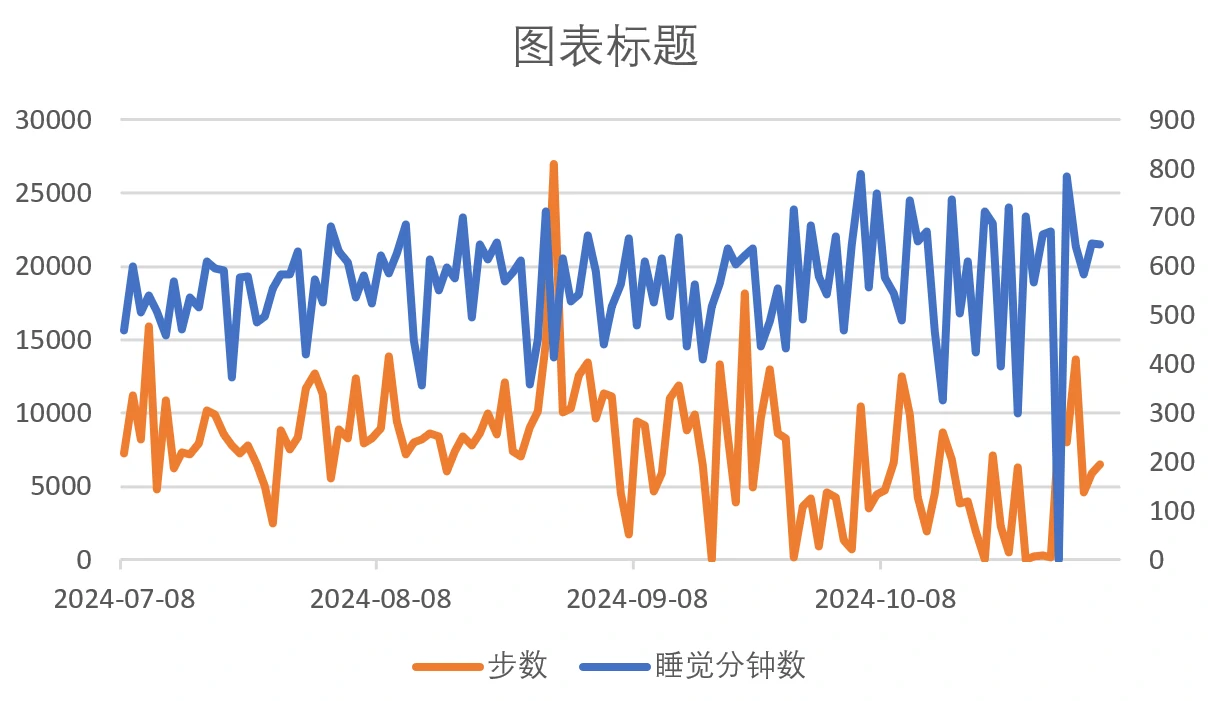
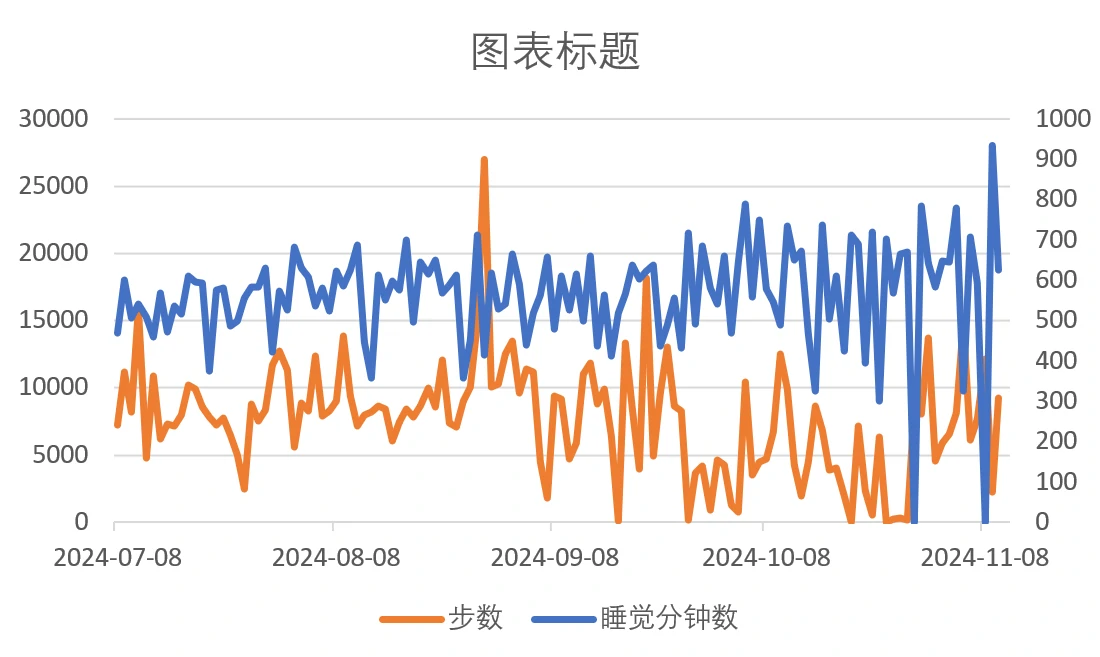
20241110

diff --git a/reason.html b/reason.html
@@ -26,7 +26,7 @@
 <meta content="https://hrfis.me/blog/images/weekly/river.webp" property="og:image"/>
 <meta content="https://hrfis.me/blog/images/weekly/weekly-1.webp" property="og:image"/>
 <meta content="2014-09-03T13:00:00.000Z" property="article:published_time"/>
-<meta content="2024-11-08T09:26:14.336Z" property="article:modified_time"/>
+<meta content="2024-11-10T13:31:53.455Z" property="article:modified_time"/>
 <meta content="Ruofan" property="article:author"/>
 <meta content="summary" name="twitter:card"/>
 <meta content="https://hrfis.me/blog/images/weekly/time.webp" name="twitter:image"/>
@@ -80,7 +80,7 @@
 <div class="sidebar-panel-container">
 <!--noindex-->
 <div class="post-toc-wrap sidebar-panel">
-<div class="post-toc animated"><ol class="nav"><li class="nav-item nav-level-2"><a class="nav-link" href="#%E5%9B%B4%E5%9F%8E%E4%B8%8E%E8%87%AA%E6%88%91%E5%88%86%E6%9E%90"><span class="nav-number">1.</span> <span class="nav-text">围城与自我分析</span></a><ol class="nav-child"><li class="nav-item nav-level-3"><a class="nav-link" href="#%E5%86%85%E5%90%91%E8%80%85%E7%9A%84%E5%9B%B4%E5%9F%8E"><span class="nav-number">1.1.</span> <span class="nav-text">内向者的围城</span></a></li><li class="nav-item nav-level-3"><a class="nav-link" href="#%E8%AF%B4%E8%AF%9D%E5%8D%A1%E5%A3%B3%E7%9A%84%E5%8E%9F%E5%9B%A0"><span class="nav-number">1.2.</span> <span class="nav-text">说话卡壳的原因</span></a></li><li class="nav-item nav-level-3"><a class="nav-link" href="#%E7%97%87%E7%8A%B6%E8%87%AA%E8%BF%B0%E6%82%96%E8%AE%BA"><span class="nav-number">1.3.</span> <span class="nav-text">症状自述悖论</span></a></li></ol></li><li class="nav-item nav-level-2"><a class="nav-link" href="#%E5%88%9B%E4%BC%A4%E4%B8%8E%E7%94%A9%E9%94%85"><span class="nav-number">2.</span> <span class="nav-text">创伤与甩锅</span></a><ol class="nav-child"><li class="nav-item nav-level-3"><a class="nav-link" href="#%E5%88%9B%E4%BC%A4%E7%9A%84%E4%BB%A3%E9%99%85%E4%BC%A0%E9%80%92"><span class="nav-number">2.1.</span> <span class="nav-text">创伤的代际传递</span></a></li><li class="nav-item nav-level-3"><a class="nav-link" href="#%E6%8C%AF%E8%8D%A1%E7%9A%84%E8%A7%92%E8%89%B2%E4%B8%8E%E7%A8%B3%E5%AE%9A%E7%9A%84%E9%BB%91%E5%8E%86%E5%8F%B2"><span class="nav-number">2.2.</span> <span class="nav-text">振荡的角色与稳定的黑历史</span></a></li><li class="nav-item nav-level-3"><a class="nav-link" href="#%E5%BF%83%E7%90%86%E7%96%BE%E7%97%85%E7%9A%84%E7%97%87%E7%8A%B6%E6%98%AF%E7%BB%93%E6%9E%9C%E8%80%8C%E9%9D%9E%E5%8E%9F%E5%9B%A0"><span class="nav-number">2.3.</span> <span class="nav-text">心理疾病的症状是结果，而非原因</span></a></li><li class="nav-item nav-level-3"><a class="nav-link" href="#%E5%A6%82%E4%BD%95%E8%AF%B4%E6%9C%8D%E8%87%AA%E5%B7%B1%E5%BF%83%E7%90%86%E5%88%9B%E4%BC%A4%E6%98%AF%E5%AE%A2%E8%A7%82%E4%B8%8D%E5%AD%98%E5%9C%A8%E7%9A%84"><span class="nav-number">2.4.</span> <span class="nav-text">如何说服自己：心理创伤是客观不存在的</span></a></li></ol></li><li class="nav-item nav-level-2"><a class="nav-link" href="#%E8%80%81%E6%95%85%E4%BA%8B"><span class="nav-number">3.</span> <span class="nav-text">老故事</span></a><ol class="nav-child"><li class="nav-item nav-level-3"><a class="nav-link" href="#%E5%8F%B2%E5%89%8D%E5%8F%B2"><span class="nav-number">3.1.</span> <span class="nav-text">史前史</span></a></li><li class="nav-item nav-level-3"><a class="nav-link" href="#%E7%AB%A5%E5%B9%B4%E5%9B%9E%E5%BF%86%E5%BD%9520052010"><span class="nav-number">3.2.</span> <span class="nav-text">童年回忆录（2005~2010）</span></a></li><li class="nav-item nav-level-3"><a class="nav-link" href="#%E6%9C%8B%E5%8F%8B%E4%BB%AC"><span class="nav-number">3.3.</span> <span class="nav-text">朋友们</span></a></li><li class="nav-item nav-level-3"><a class="nav-link" href="#%E9%99%80%E8%9E%BA%E5%92%8C%E8%A1%A5%E4%B9%A0%E7%8F%AD"><span class="nav-number">3.4.</span> <span class="nav-text">陀螺和补习班</span></a></li><li class="nav-item nav-level-3"><a class="nav-link" href="#%E7%89%99%E5%92%8C%E6%89%8B%E6%9C%BA%E7%9A%84%E6%95%85%E4%BA%8B"><span class="nav-number">3.5.</span> <span class="nav-text">牙和手机的故事</span></a></li><li class="nav-item nav-level-3"><a class="nav-link" href="#%E5%BC%A0%E6%97%A0%E7%95%8F"><span class="nav-number">3.6.</span> <span class="nav-text">张无畏</span></a></li><li class="nav-item nav-level-3"><a class="nav-link" href="#%E5%91%8A%E5%88%AB"><span class="nav-number">3.7.</span> <span class="nav-text">告别</span></a></li></ol></li><li class="nav-item nav-level-2"><a class="nav-link" href="#%E6%96%B0%E6%95%85%E4%BA%8B"><span class="nav-number">4.</span> <span class="nav-text">新故事</span></a><ol class="nav-child"><li class="nav-item nav-level-3"><a class="nav-link" href="#%E5%B9%B4%E4%B8%AD%E6%80%BB%E7%BB%93"><span class="nav-number">4.1.</span> <span class="nav-text">2025 年中总结</span></a></li><li class="nav-item nav-level-3"><a class="nav-link" href="#%E5%B9%B4%E4%B8%AD%E6%80%BB%E7%BB%93-1"><span class="nav-number">4.2.</span> <span class="nav-text">2024 年中总结</span></a></li><li class="nav-item nav-level-3"><a class="nav-link" href="#%E6%9C%9F"><span class="nav-number">4.3.</span> <span class="nav-text">241028 期</span></a></li><li class="nav-item nav-level-3"><a class="nav-link" href="#%E9%95%BF%E8%B7%91%E6%8C%81%E7%BB%AD%E6%97%B6%E9%97%B4%E8%AE%B0%E5%BD%95"><span class="nav-number">4.4.</span> <span class="nav-text">长跑持续时间记录</span></a></li><li class="nav-item nav-level-3"><a class="nav-link" href="#m-%E8%AE%B0%E5%BD%95"><span class="nav-number">4.5.</span> <span class="nav-text">1000m 记录</span></a></li><li class="nav-item nav-level-3"><a class="nav-link" href="#m-%E8%AE%B0%E5%BD%95-1"><span class="nav-number">4.6.</span> <span class="nav-text">1500m 记录</span></a></li><li class="nav-item nav-level-3"><a class="nav-link" href="#%E6%9C%9F-1"><span class="nav-number">4.7.</span> <span class="nav-text">241021 期</span></a></li><li class="nav-item nav-level-3"><a class="nav-link" href="#%E6%9C%9F-2"><span class="nav-number">4.8.</span> <span class="nav-text">241014 期</span></a></li><li class="nav-item nav-level-3"><a class="nav-link" href="#%E6%9C%9F-3"><span class="nav-number">4.9.</span> <span class="nav-text">241007 期</span></a></li><li class="nav-item nav-level-3"><a class="nav-link" href="#%E6%9C%9F-4"><span class="nav-number">4.10.</span> <span class="nav-text">240930 期</span></a></li><li class="nav-item nav-level-3"><a class="nav-link" href="#%E6%9C%9F-5"><span class="nav-number">4.11.</span> <span class="nav-text">240923 期</span></a></li><li class="nav-item nav-level-3"><a class="nav-link" href="#%E6%9C%9F-6"><span class="nav-number">4.12.</span> <span class="nav-text">240916 期</span></a></li><li class="nav-item nav-level-3"><a class="nav-link" href="#%E6%9C%9F-7"><span class="nav-number">4.13.</span> <span class="nav-text">240909 期</span></a></li><li class="nav-item nav-level-3"><a class="nav-link" href="#%E6%9C%9F-8"><span class="nav-number">4.14.</span> <span class="nav-text">240902 期</span></a></li><li class="nav-item nav-level-3"><a class="nav-link" href="#%E6%9C%9F-9"><span class="nav-number">4.15.</span> <span class="nav-text">240826 期</span></a></li><li class="nav-item nav-level-3"><a class="nav-link" href="#%E6%9C%9F-10"><span class="nav-number">4.16.</span> <span class="nav-text">240819 期</span></a></li><li class="nav-item nav-level-3"><a class="nav-link" href="#%E6%9C%9F-11"><span class="nav-number">4.17.</span> <span class="nav-text">240812 期</span></a></li><li class="nav-item nav-level-3"><a class="nav-link" href="#%E6%9C%9F-12"><span class="nav-number">4.18.</span> <span class="nav-text">240805 期</span></a></li><li class="nav-item nav-level-3"><a class="nav-link" href="#%E6%9C%9F-13"><span class="nav-number">4.19.</span> <span class="nav-text">240729 期</span></a></li><li class="nav-item nav-level-3"><a class="nav-link" href="#%E6%9C%9F-14"><span class="nav-number">4.20.</span> <span class="nav-text">240722 期</span></a></li><li class="nav-item nav-level-3"><a class="nav-link" href="#%E6%9C%9F-15"><span class="nav-number">4.21.</span> <span class="nav-text">240715 期</span></a></li><li class="nav-item nav-level-3"><a class="nav-link" href="#%E6%9C%9F-16"><span class="nav-number">4.22.</span> <span class="nav-text">240708 期</span></a></li></ol></li></ol></div>
+<div class="post-toc animated"><ol class="nav"><li class="nav-item nav-level-2"><a class="nav-link" href="#%E5%9B%B4%E5%9F%8E%E4%B8%8E%E8%87%AA%E6%88%91%E5%88%86%E6%9E%90"><span class="nav-number">1.</span> <span class="nav-text">围城与自我分析</span></a><ol class="nav-child"><li class="nav-item nav-level-3"><a class="nav-link" href="#%E5%86%85%E5%90%91%E8%80%85%E7%9A%84%E5%9B%B4%E5%9F%8E"><span class="nav-number">1.1.</span> <span class="nav-text">内向者的围城</span></a></li><li class="nav-item nav-level-3"><a class="nav-link" href="#%E8%AF%B4%E8%AF%9D%E5%8D%A1%E5%A3%B3%E7%9A%84%E5%8E%9F%E5%9B%A0"><span class="nav-number">1.2.</span> <span class="nav-text">说话卡壳的原因</span></a></li><li class="nav-item nav-level-3"><a class="nav-link" href="#%E7%97%87%E7%8A%B6%E8%87%AA%E8%BF%B0%E6%82%96%E8%AE%BA"><span class="nav-number">1.3.</span> <span class="nav-text">症状自述悖论</span></a></li></ol></li><li class="nav-item nav-level-2"><a class="nav-link" href="#%E5%88%9B%E4%BC%A4%E4%B8%8E%E7%94%A9%E9%94%85"><span class="nav-number">2.</span> <span class="nav-text">创伤与甩锅</span></a><ol class="nav-child"><li class="nav-item nav-level-3"><a class="nav-link" href="#%E5%88%9B%E4%BC%A4%E7%9A%84%E4%BB%A3%E9%99%85%E4%BC%A0%E9%80%92"><span class="nav-number">2.1.</span> <span class="nav-text">创伤的代际传递</span></a></li><li class="nav-item nav-level-3"><a class="nav-link" href="#%E6%8C%AF%E8%8D%A1%E7%9A%84%E8%A7%92%E8%89%B2%E4%B8%8E%E7%A8%B3%E5%AE%9A%E7%9A%84%E9%BB%91%E5%8E%86%E5%8F%B2"><span class="nav-number">2.2.</span> <span class="nav-text">振荡的角色与稳定的黑历史</span></a></li><li class="nav-item nav-level-3"><a class="nav-link" href="#%E5%BF%83%E7%90%86%E7%96%BE%E7%97%85%E7%9A%84%E7%97%87%E7%8A%B6%E6%98%AF%E7%BB%93%E6%9E%9C%E8%80%8C%E9%9D%9E%E5%8E%9F%E5%9B%A0"><span class="nav-number">2.3.</span> <span class="nav-text">心理疾病的症状是结果，而非原因</span></a></li><li class="nav-item nav-level-3"><a class="nav-link" href="#%E5%A6%82%E4%BD%95%E8%AF%B4%E6%9C%8D%E8%87%AA%E5%B7%B1%E5%BF%83%E7%90%86%E5%88%9B%E4%BC%A4%E6%98%AF%E5%AE%A2%E8%A7%82%E4%B8%8D%E5%AD%98%E5%9C%A8%E7%9A%84"><span class="nav-number">2.4.</span> <span class="nav-text">如何说服自己：心理创伤是客观不存在的</span></a></li></ol></li><li class="nav-item nav-level-2"><a class="nav-link" href="#%E8%80%81%E6%95%85%E4%BA%8B"><span class="nav-number">3.</span> <span class="nav-text">老故事</span></a><ol class="nav-child"><li class="nav-item nav-level-3"><a class="nav-link" href="#%E5%8F%B2%E5%89%8D%E5%8F%B2"><span class="nav-number">3.1.</span> <span class="nav-text">史前史</span></a></li><li class="nav-item nav-level-3"><a class="nav-link" href="#%E7%AB%A5%E5%B9%B4%E5%9B%9E%E5%BF%86%E5%BD%9520052010"><span class="nav-number">3.2.</span> <span class="nav-text">童年回忆录（2005~2010）</span></a></li><li class="nav-item nav-level-3"><a class="nav-link" href="#%E6%9C%8B%E5%8F%8B%E4%BB%AC"><span class="nav-number">3.3.</span> <span class="nav-text">朋友们</span></a></li><li class="nav-item nav-level-3"><a class="nav-link" href="#%E9%99%80%E8%9E%BA%E5%92%8C%E8%A1%A5%E4%B9%A0%E7%8F%AD"><span class="nav-number">3.4.</span> <span class="nav-text">陀螺和补习班</span></a></li><li class="nav-item nav-level-3"><a class="nav-link" href="#%E7%89%99%E5%92%8C%E6%89%8B%E6%9C%BA%E7%9A%84%E6%95%85%E4%BA%8B"><span class="nav-number">3.5.</span> <span class="nav-text">牙和手机的故事</span></a></li><li class="nav-item nav-level-3"><a class="nav-link" href="#%E5%BC%A0%E6%97%A0%E7%95%8F"><span class="nav-number">3.6.</span> <span class="nav-text">张无畏</span></a></li><li class="nav-item nav-level-3"><a class="nav-link" href="#%E5%91%8A%E5%88%AB"><span class="nav-number">3.7.</span> <span class="nav-text">告别</span></a></li></ol></li><li class="nav-item nav-level-2"><a class="nav-link" href="#%E6%96%B0%E6%95%85%E4%BA%8B"><span class="nav-number">4.</span> <span class="nav-text">新故事</span></a><ol class="nav-child"><li class="nav-item nav-level-3"><a class="nav-link" href="#%E6%9C%9F%E5%8F%8A%E4%BB%A5%E5%90%8E"><span class="nav-number">4.1.</span> <span class="nav-text">241028 期及以后</span></a></li><li class="nav-item nav-level-3"><a class="nav-link" href="#%E5%B9%B4%E4%B8%AD%E6%80%BB%E7%BB%93"><span class="nav-number">4.2.</span> <span class="nav-text">2025 年中总结</span></a></li><li class="nav-item nav-level-3"><a class="nav-link" href="#%E5%B9%B4%E4%B8%AD%E6%80%BB%E7%BB%93-1"><span class="nav-number">4.3.</span> <span class="nav-text">2024 年中总结</span></a></li><li class="nav-item nav-level-3"><a class="nav-link" href="#%E9%95%BF%E8%B7%91%E6%8C%81%E7%BB%AD%E6%97%B6%E9%97%B4%E8%AE%B0%E5%BD%95"><span class="nav-number">4.4.</span> <span class="nav-text">长跑持续时间记录</span></a></li><li class="nav-item nav-level-3"><a class="nav-link" href="#m-%E8%AE%B0%E5%BD%95"><span class="nav-number">4.5.</span> <span class="nav-text">1000m 记录</span></a></li><li class="nav-item nav-level-3"><a class="nav-link" href="#m-%E8%AE%B0%E5%BD%95-1"><span class="nav-number">4.6.</span> <span class="nav-text">1500m 记录</span></a></li><li class="nav-item nav-level-3"><a class="nav-link" href="#%E6%9C%9F"><span class="nav-number">4.7.</span> <span class="nav-text">241021 期</span></a></li><li class="nav-item nav-level-3"><a class="nav-link" href="#%E6%9C%9F-1"><span class="nav-number">4.8.</span> <span class="nav-text">241014 期</span></a></li><li class="nav-item nav-level-3"><a class="nav-link" href="#%E6%9C%9F-2"><span class="nav-number">4.9.</span> <span class="nav-text">241007 期</span></a></li><li class="nav-item nav-level-3"><a class="nav-link" href="#%E6%9C%9F-3"><span class="nav-number">4.10.</span> <span class="nav-text">240930 期</span></a></li><li class="nav-item nav-level-3"><a class="nav-link" href="#%E6%9C%9F-4"><span class="nav-number">4.11.</span> <span class="nav-text">240923 期</span></a></li><li class="nav-item nav-level-3"><a class="nav-link" href="#%E6%9C%9F-5"><span class="nav-number">4.12.</span> <span class="nav-text">240916 期</span></a></li><li class="nav-item nav-level-3"><a class="nav-link" href="#%E6%9C%9F-6"><span class="nav-number">4.13.</span> <span class="nav-text">240909 期</span></a></li><li class="nav-item nav-level-3"><a class="nav-link" href="#%E6%9C%9F-7"><span class="nav-number">4.14.</span> <span class="nav-text">240902 期</span></a></li><li class="nav-item nav-level-3"><a class="nav-link" href="#%E6%9C%9F-8"><span class="nav-number">4.15.</span> <span class="nav-text">240826 期</span></a></li><li class="nav-item nav-level-3"><a class="nav-link" href="#%E6%9C%9F-9"><span class="nav-number">4.16.</span> <span class="nav-text">240819 期</span></a></li><li class="nav-item nav-level-3"><a class="nav-link" href="#%E6%9C%9F-10"><span class="nav-number">4.17.</span> <span class="nav-text">240812 期</span></a></li><li class="nav-item nav-level-3"><a class="nav-link" href="#%E6%9C%9F-240708-%E6%9C%9F"><span class="nav-number">4.18.</span> <span class="nav-text">240805 期～240708 期</span></a></li></ol></li></ol></div>
 </div>
 <!--/noindex-->
 <div class="site-overview-wrap sidebar-panel">
@@ -142,7 +142,7 @@
 <i class="far fa-calendar-check"></i>
 </span>
 <span class="post-meta-item-text">更新于</span>
-<time datetime="2024-11-08T17:26:14+08:00" itemprop="dateModified" title="修改时间：2024-11-08 17:26:14">2024-11-08</time>
+<time datetime="2024-11-10T21:31:53+08:00" itemprop="dateModified" title="修改时间：2024-11-10 21:31:53">2024-11-10</time>
 </span>
 <span class="post-meta-item">
 <span class="post-meta-item-icon">
@@ -276,10 +276,11 @@ x
 2021 年底的一段时间里，他的儿子吃安眠药都睡不着。</p>
 <p>这一大堆旧账最终被累积成 "抑郁症" 三个简单的字，并被一个并不知道他们过去经历的人说出来。</p>
 <h3 id="如何说服自己心理创伤是客观不存在的">如何说服自己：心理创伤是客观不存在的</h3>
-<p>当我们使用 “创伤” 一词时，好像陷入了一个局：认为这个东西一定是存在的，一定是有一个什么诱因导致了个体出现了什么异常的行为。</p>
-<p>从认知行为疗法的角度看，是你的认知出了问题，一件对外人来说并不怎么严重的事被你看得过度严重了。</p>
-<p>从情绪的二因素理论的角度看，情绪由生理唤起，个人无法解释这种生理唤起的现象，所以用词来表示出来。我们可以把注意力从 “创伤存在” 转移到 “生理唤起的过程上”，如何规避这个唤起的过程。</p>
-<p>从疾病的继发性获益的角度看，为了维持自己的病人身份并从中获利，你会维持着自己有病的错误观念。</p>
+<p>当我们提到 “创伤” 这个词的时候，是不是有点像掉进了个思维陷阱？仿佛在说，肯定有什么大事发生了，然后某人才会表现得跟平时不太一样。其实，换个角度来看，事情可能就有趣多了。</p>
+<p>比如说，从认知行为疗法那帮聪明人的视角来看，有时候我们就是有点儿太会脑补了。一件在别人看来没啥大不了的事情，到了咱们这儿，就被无限放大了，好像世界末日要来了似的。这就好比你走在路上突然发现鞋带开了，却立刻担心会不会因此错过人生中的重要约会 —— 虽然大多数时候，重新系好鞋带就能解决问题！</p>
+<p>再比如，根据情绪二因素理论的朋友们说，情绪就像是身体里头突然窜出来的火花，而我们呢，有时候找不到这火花到底是咋来的，只好给它安上个名字。所以与其纠结于 “我是不是受过伤”，不如想想 “哎呀，我体内这个小火花是怎么点燃的呢？” 这样，也许下次当感觉到心跳加速或者手心出汗时，可以试着深呼吸几下，告诉自己：“嘿，这只是身体的小游戏罢了。”</p>
+<p>最后，还有一种挺逗的观点，叫做疾病继发性获益。想象一下，如果你生病了（当然这里指的是轻微的那种），不仅不用上班还能得到家人朋友更多关心照顾，听起来是不是还挺不错的？但别忘了，长期下去可能会让你变成一个专业级 “病人”，总觉得自己需要特别对待才行。这时候，或许应该提醒自己：“嗯哼，我可不想永远当个小病号哦！”</p>
+<p>总之啊，面对所谓的 “创伤”，不妨多一点幽默感，少一点沉重感，说不定你会发现生活中那些曾经让你困扰不已的问题，其实都有更轻松愉快的方式来解决呢！</p>
 <h2 id="老故事">老故事</h2>
 <h3 id="史前史">史前史</h3>
 <p>黃化某者，郧陽府之巨賈也。駕舳艫溯漢水而上，歷險巇至於秦地，購蔬果如薯葯、龍須草之屬，復轉輸漢口埠頭鬻賣，獲利頗豐，儲鏹以囊盛之。</p>
@@ -398,6 +399,10 @@ Jumpboy（火箭约会狂想曲）和 Bobbycarrot（波比萝卜）。</p>
 午我死活想不起来了。</p>
 <p>我在那儿生活得很快乐，直到有一天，不知什么原因我们要搬家。那天，我坐在车里，我的朋友们追着汽车，对我喊着 “再见”，我的眼泪 “唰” 地一下就流下来了 —— 我不想离开这儿。就因为这次搬家，改变了我的一生。（2014.9.14）</p>
 <h2 id="新故事">新故事</h2>
+<h3 id="期及以后">241028 期及以后</h3>
+<p>241028 期：本周睡觉平均：9.45 小时；平均步数：6781</p>
+<p>241104 期：本周睡觉平均：9.45 小时，步数平均 8613 步。</p>
+<p>这一周虽然有一天一夜没睡，但是那一天的心情在这一周之内是最好的，后面的心情也越来越好了，这相当于是一种平衡。另外平均睡觉时长也奇迹般地与上周保持一致。</p>
 <h3 id="年中总结">2025 年中总结</h3>
 <p>在大学的旅程里，有一门课《人生风险与社会保障》成为了我学术生涯的一颗璀璨明珠，以
 99
@@ -449,8 +454,6 @@ Flume
 是你这一年里做出来最精细的东西，你把这个文件的字节数精确到了 413696
 个，换算过去正好是
 404KB。虽然大概没人发现，但只要在域名后面随便输一个，再打开浏览器开发者工具的控制台，你会看到一张纸片人。</p>
-<h3 id="期">241028 期</h3>
-<p>本周睡觉平均：9.45 小时；平均步数：6781</p>
 <h3 id="长跑持续时间记录">长跑持续时间记录</h3>
 <ul>
 <li>24.09.
@@ -481,13 +484,13 @@ Flume
 <ul>
 <li>24.09.22：7'05</li>
 </ul>
-<h3 id="期-1">241021 期</h3>
+<h3 id="期">241021 期</h3>
 <p>最近我的胆子好像充了点气，变得鼓鼓囊囊的！现在要是觉得哪儿不对劲儿，想开溜的时候，我就像个脱缰的小马驹，说走就走，再也不用担心背后有人嘀咕：“哎，他怎么走了？” 因为事实证明，大家其实都忙着自己的事儿，根本没空当侦探去琢磨别人的行踪。</p>
 <p>至于读书嘛，我的眼睛和大脑似乎也偷偷升级了一下，虽然不是从书虫直接进化成学霸，但至少现在啃起书本来，比以前流畅那么一丢丢。看来知识的大门正在慢慢为我敞开呢，哪怕只是一条小缝儿！</p>
-<h3 id="期-2">241014 期</h3>
+<h3 id="期-1">241014 期</h3>
 <p>本周，我又为我的童年拼图补上了一块珍贵的碎片，发现那两年住在地下室的日子并不全是灰暗的。虽然父亲已经把这些往事抛到了九霄云外，但我依然记得清清楚楚。原来，那时候父亲还给我下载过一些游戏呢！看来，记忆这东西有时候比硬盘还靠谱。</p>
 <p>本周难得有机会帮妈妈做了一些体力活，这种机会可不是天天都有的。最大的收获是：当环境里没有垃圾桶时，一条床单竟然也能临时顶上！看来，生活中的创意总是无处不在，床单不仅能用来睡觉，关键时刻还能 “兼职” 垃圾桶呢！</p>
-<h3 id="期-3">241007 期</h3>
+<h3 id="期-2">241007 期</h3>
 <p>这周老妈突然说想让我带她去黄鹤楼转转，我当然是满口答应。然而到了那天早上，我的闹钟仿佛对我施展了某种催眠术，硬是没把我从温暖的被窝里拽出来。或许是因为心里头有些小紧张吧，再加上最近几个月作息简直乱得像调色盘上的颜料，五颜六色的。</p>
 <p>前几周心血来潮想要做点好事 —— 献血去！结果呢？走到汉口火车站就开始打退堂鼓了。一来肚子不争气地叫了起来，二来也没搞清楚献血的地方到底是在楼上还是楼下（事后发现答案是楼上）。好不容易填饱了肚子，又开始纠结刚吃完饭是不是不能献血。最让人头疼的是武汉市血液中心的微信公众号上那些问题，比如问你有没有服用过精神类药物之类的，搞得我心里直打鼓。</p>
 <p>记得姜文电影里的那句台词：“写出来的那还叫心里话？”
@@ -497,7 +500,7 @@ Flume
 <p>当然了，无条件的好心肠也容易被人利用。去年去医院的路上，我就遇到了一位演技堪比影帝的 “老板”。他说自己手机丢了急着去开会，于是我就跟着他去了个商店给他换了
 200
 块钱现金，换来的却是一个假手机号和一块手表。这位骗子可真是有两把刷子，就像赵本山能通过葱花味判断出厨师一样准。自那以后，无论是校内校外遇到卖笔的小贩，我都选择视而不见 —— 除非他卖的是自行车，至少那东西看起来比手表值钱多了。</p>
-<h3 id="期-4">240930 期</h3>
+<h3 id="期-3">240930 期</h3>
 <p>生活里总是充满着让人哭笑不得的巧合。我刚开始认真记录时间，家里的钟表就像约好了似的突然罢工了。不过，就在这个周末回家时，我给它换上了新电池，就像是命运在告诉我：“嘿，小伙子，时间又开始转动啦！”
 这种微妙的感觉，简直像是宇宙间的一场小小对话。</p>
 <p>这周我和老爸决定来点新鲜玩意儿，于是我们一头扎进了附近的游戏中心。88
@@ -509,7 +512,7 @@ Flume
 40 分左右，并且经常能在 25
 人的队伍中名列前茅。当然了，要想挤进排行榜，我还得继续努力，毕竟那上面的高手们积分都是近万级别的，他们可是每天十几个小时直播加练习的专业选手啊！</p>
 <p>社交方面也有了一些小小的进步。最近参加饭局的时候，我不再只是默默地当一个听众，而是试着参与到大家的话题中去。即便偶尔还是会因为害羞或找不到合适的话题而略显尴尬，但至少学会了在别人敬酒时礼貌地回应，不让气氛变得太冷淡。在家里敲键盘时，感觉自己的表达比在外面直接说话时更加流畅自如，毕竟这是 “主场作战”，而且还能借助语言模型优化一下措辞，让交流变得更加轻松愉快。</p>
-<h3 id="期-5">240923 期</h3>
+<h3 id="期-4">240923 期</h3>
 <p>这两周的生活有点像过山车，起起伏伏的。首先是情感释放方面，我光荣地完成了一次 “泪腺大扫除”，用时
 4.5 小时来彻底了结了一些旧事，算是给心情做了一次深度清洁。</p>
 <p>不过，在健康生活习惯上，我的表现就有点儿像缩水的海绵了 —— 喝水量和跑步里程都明显下降，连做饭和做家务的次数也跟着缩水。最尴尬的是，两个月没见的干燥嘴唇又来找我麻烦了，仿佛是在提醒：“嘿，伙计，别忘了照顾好自己啊！”</p>
@@ -520,20 +523,20 @@ Flume
 <p>然而，说到自律性，情况就没那么乐观了。这周我不小心踩了几次红线，违反了几条自我设定的小条约
 3 到 6
 项，睡眠债也是越积越多。这些条约本来是用来激励自己成为理想中的那个 “超人” 的，但现在看来，它们更像是用来调侃自己的小笑话，实际效果嘛…… 呵呵，你懂的。</p>
-<h3 id="期-6">240916 期</h3>
+<h3 id="期-5">240916 期</h3>
 <p>这两周的生活就像是一场游戏，有起有落。在《超级纸片马里奥》的世界里，我卡在了
 8-3 关，仿佛遇到了一个顽固的
 BOSS，怎么也过不去。至于音游嘛，我发现了一个奇怪的现象：如果不记录成绩，反而能打得更好。大概是因为从心底觉得打游戏不是什么 “正经事”，一旦不那么在意分数，就放得开了，玩起来更自在。</p>
 <p>值得庆祝的是，本周我的纠结时间达到了历史最低点，似乎终于找到了与自己和解的方式。这感觉就像是游戏里的主角突然解锁了新技能，对付生活中的小怪兽变得更加得心应手了。</p>
 <p>说到早起这个老大难问题，我发现关键在于第二天是否有明确的任务或安排。如果第二天有个目标等着我去完成，闹钟一响，我就像是被激活了一样，立刻从床上弹起来；反之，要是没有什么特别的事儿，那床简直就是个温暖舒适的陷阱，让人难以自拔。看来，给自己的每一天设定一个小目标，或许就是打败赖床大魔王的秘密武器呢！</p>
-<h3 id="期-7">240909 期</h3>
+<h3 id="期-6">240909 期</h3>
 <p>这周在《和平精英》的战场上，我只花了 9
 分钟就成功吃鸡一次，简直就是闪电战的典范！感觉就像是在游戏中开了挂，迅速解决了战斗，然后潇洒地退出了战场。</p>
 <p>说到睡眠，这周的平均时长竟然奇迹般地与上周保持一致，标准差也只是略微减少了几分钟。看来我的生物钟正在逐渐稳定下来，尽管有时候还是会怀疑是不是时间偷偷按下了重复键。</p>
 <p>最令人惊喜的是，本周我发现自己竟然拥有了连续跑步一小时的体格和耐力，这可是前所未有的壮举！以前跑个十几分钟就气喘吁吁了，现在却能像永动机一样不停歇。这种突破让我觉得自己像是从新手村直接升级到了高级玩家，瞬间信心爆棚。</p>
 <p>不仅如此，我还发现了一个新技能 —— 能够连续朗读文字一小时。虽然读的是以前看过的小说，但这份持久力还是让人感到小小的自豪。想象一下，如果把这项技能用在讲故事大赛上，那简直就是无敌的存在啊！</p>
 <p>总之，这周的生活充满了意外的发现和小成就，感觉自己正一步步解锁着生活中的隐藏关卡，每一步都让未来更加充满期待。</p>
-<h3 id="期-8">240902 期</h3>
+<h3 id="期-7">240902 期</h3>
 <p>这周的生活简直就像是一部精心编排的剧集，充满了各种小插曲和惊喜。</p>
 <p><strong>基本生活方面</strong>：
 吃饭这件事嘛，时好时坏，有时候像是在参加美食节，有时候又像是在执行斋戒任务。至于睡觉，平均每天能睡上
@@ -569,7 +572,7 @@ C，让身体充满活力。运动成绩相当不错，总共走了 61375
 <p>这两个月来，最明显的进步就是运动能力大大增强。现在即使吃饱了肚子，也能一口气跑上
 7 分钟，这在以前可是连 5
 分钟都坚持不了的壮举。如果把打游戏当成正经事来看待的话，那么在游戏中花钱和使用道具也就不再那么纠结了。大多数关卡靠自己就能搞定，实在过不去的时候再查查攻略，这样既保持了成就感，又不会太伤脑筋。</p>
-<h3 id="期-9">240826 期</h3>
+<h3 id="期-8">240826 期</h3>
 <p>这周的生活就像是一场精彩的冒险，充满了各种小成就和意外的惊喜。</p>
 <p><strong>情绪管理</strong>：
 本周我的负面情绪没有达到统计的阈值，看来心情还算不错。有趣的是，适度的愤怒反而成了我运动的动力 —— 每当有点小脾气的时候，我就去跑步或者做点体力活，既发泄了情绪，又锻炼了身体，真是一举两得！</p>
@@ -585,7 +588,7 @@ HOME
 <p><strong>步数新纪录</strong>：
 说到运动，这周的步数创下了历史新高！虽然大部分都是平地行走，没有爬坡，但这样的成绩已经让我相当满意了。看来，无论是游戏还是现实生活，只要肯付出努力，总会有意想不到的收获。</p>
 <p>总之，这一周过得充实而有趣，既有新的发现，也有小小的挑战。希望下周还能继续保持这份积极向上的劲头！</p>
-<h3 id="期-10">240819 期</h3>
+<h3 id="期-9">240819 期</h3>
 <p>这周我尝试用语言模型对一些文字进行了重构，不得不说，这个模型的情商还真不是盖的，改写后的文字读起来既流畅又有趣。</p>
 <p>不过，这周也属于 “内耗周”，整整四天多的时间里，我都处于一种自我消耗的状态。期间经历了一次小抑郁，主要是因为下雨加上开学前的压力。根据以往的经验，下雨有大约
 10% 的概率会让我心情低落。其他几次小抑郁则是因为睡前玩游戏停不下来，结果导致这周只有一次在
@@ -601,7 +604,7 @@ HOME
 步的好习惯。而在这个月，我还学会了把生气的时间控制在 3
 分钟以内。毕竟，很多时候生气的原因很大程度上是自己的过错，及时调整心态，不让负面情绪蔓延，生活就会变得更加轻松愉快。</p>
 <p>总之，这一周虽然有些波折，但也收获了不少经验和教训。希望下周能够继续保持积极向上的态度，让生活更加精彩！</p>
-<h3 id="期-11">240812 期</h3>
+<h3 id="期-10">240812 期</h3>
 <ul>
 <li>这周我干了些体力活，虽然说不上是搬砖那种高强度劳动，但也算是活动了一下筋骨，感觉整个人都精神了不少。</li>
 <li>本周负面情绪几乎绝迹，除了有两天晚上因为床突然变硬了（可能是床垫在抗议），导致入睡速度有点慢。不过，这小插曲并没有影响整体的好心情。</li>
@@ -612,7 +615,8 @@ GOOD，简直像是打通了任督二脉，成就感满满！</li>
 道。虽然以后不一定用得上，但知识总是多多益善嘛。说不定哪天就能派上大用场呢！</li>
 </ul>
 <p>总之，这周过得充实而有意义，既有小成就也有小挑战。希望下周继续保持这种积极向上的状态，让生活更加精彩！</p>
-<h3 id="期-12">240805 期</h3>
+<h3 id="期-240708-期">240805 期～240708 期</h3>
+<p>240805 期：</p>
 <p>这周的生活真是五味杂陈，既有小成就也有小插曲，让我来细细道来。</p>
 <ul>
 <li>本周我开始调整生物钟，尝试在晚上十点左右上床睡觉。这个改变对我来说简直是巨大的进步，感觉整个人都精神了不少。</li>
@@ -630,7 +634,7 @@ GOOD，简直像是打通了任督二脉，成就感满满！</li>
 <li>我还征求了父亲的意见，修改了一些笔记的内容。看来多听听长辈的建议总是没错的。</li>
 <li>学习方面依旧是个老大难问题。写了一点基础心理学相关的笔记，但始终存在一个长久的毛病：只要发出来了，后续就不愿意改了；如果不发，后续也不愿意补充了。这种心态真是让人头疼。另外，我也在思考到底为什么要学这些内容，是不是真的对自己有用？</li>
 </ul>
-<h3 id="期-13">240729 期</h3>
+<p>240729 期：</p>
 <p>这周的生活就像是一场充满惊喜和挑战的冒险，让我来细细回味一下。</p>
 <p><strong>好的方面：</strong></p>
 <ul>
@@ -655,7 +659,7 @@ GOOD，简直像是打通了任督二脉，成就感满满！</li>
 小时，包括做饭和剥玉米。虽然时间不长，但也算是为家庭贡献了一份力量。</li>
 </ul>
 <p>总之，这周过得还算充实，既有进步也有需要改进的地方。希望下周能够继续保持积极向上的态度，让生活更加精彩！</p>
-<h3 id="期-14">240722 期</h3>
+<p>240722 期：</p>
 <p><strong>本周总结：</strong></p>
 <p>这周的生活就像是一场充满起伏的冒险，既有成就也有小插曲，让我来细细回味一下。</p>
 <p><strong>基本方面：</strong></p>
@@ -734,7 +738,7 @@ BOSS，剧终了。地狱模式尝试了三次，第一次挂在 80
 天时间里，打游戏时长呈波动状态。主要是在纠结：暑假到底是不是用来玩的。</li>
 </ul>
 <p><img src="/blog/images/weekly/weekly-1.webp"/></p>
-<h3 id="期-15">240715 期</h3>
+<p>240715 期：</p>
 <ul>
 <li>吃饭时间总共 5 小时 15 分钟，早餐有 3
 顿没吃。看来有时候还是需要提醒自己按时吃饭，毕竟身体是革命的本钱嘛。</li>
@@ -805,7 +809,7 @@ BOSS，剧终了。地狱模式尝试了三次，第一次挂在 80
 good。自信不足时，有时候会越打越差。希望下周能够继续进步，找到更好的平衡点。</li>
 </ul>
 <p>总之，这周过得还算充实，既有进步也有需要改进的地方。希望下周能够继续保持积极向上的态度，让生活更加精彩！</p>
-<h3 id="期-16">240708 期</h3>
+<p>240708 期：</p>
 <p><strong>本周总结：</strong></p>
 <p>这周的生活就像是一场充满起伏的冒险，既有成就也有小插曲，让我来细细回味一下。</p>
 <p><strong>基本方面：</strong></p>

diff --git a/css/main.css b/css/main.css
@@ -1240,7 +1240,7 @@ pre code {
     vertical-align: middle;
   }
   .links-of-author a::before {
-    background: #ffa188;
+    background: #ff9421;
     display: inline-block;
     margin-right: 3px;
     transform: translateY(-2px);
